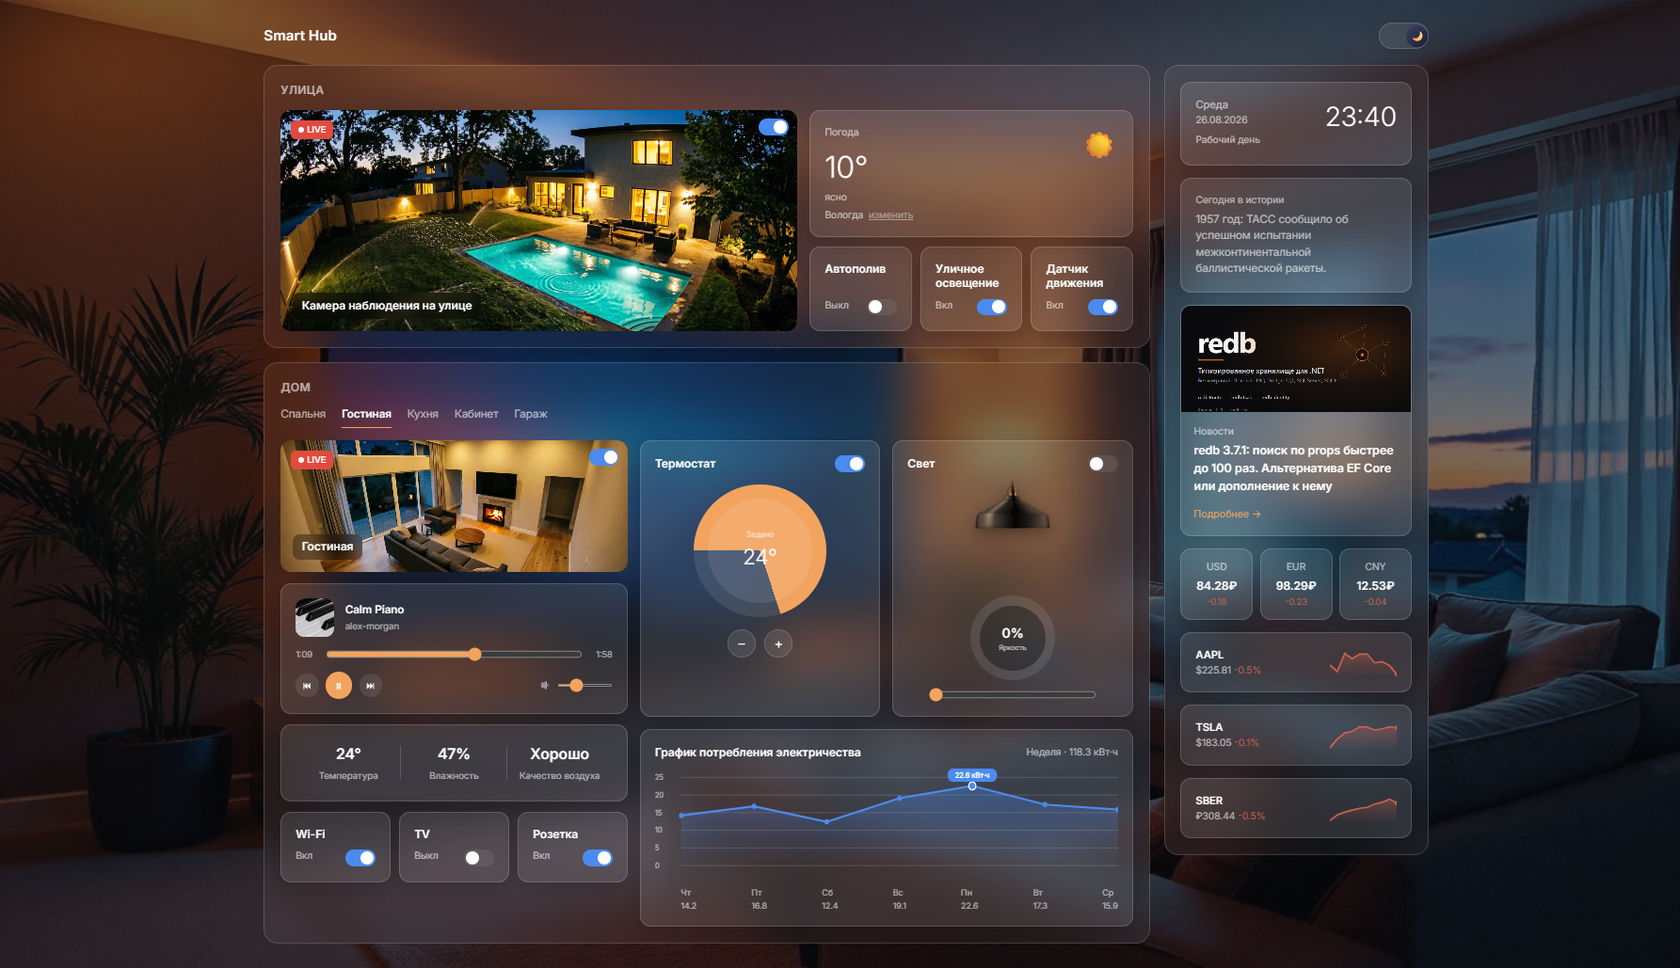
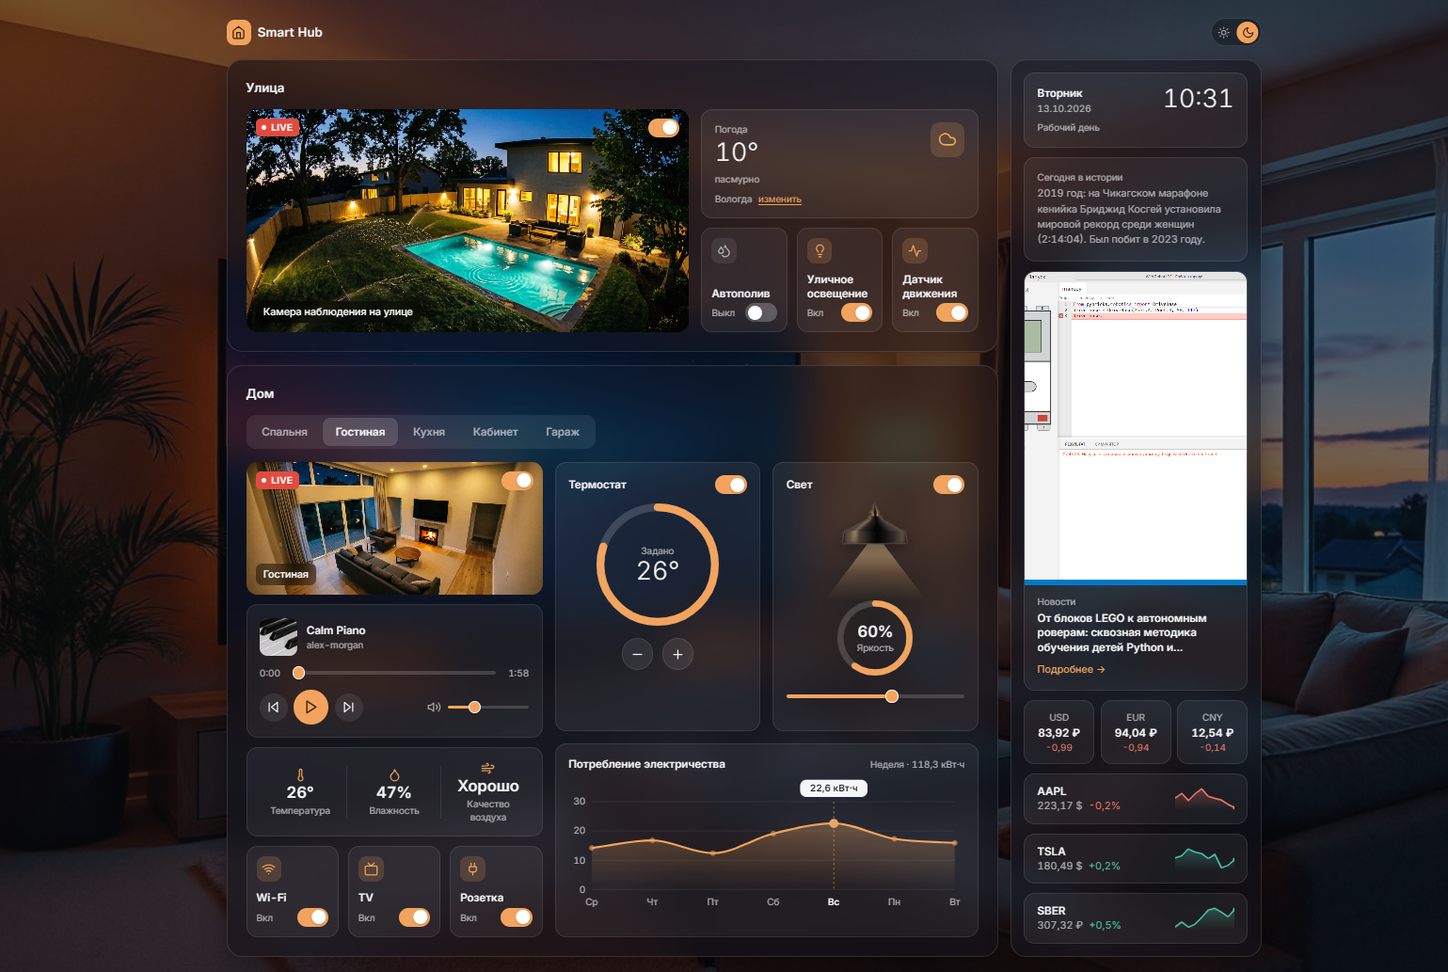
update README

diff --git a/README.md b/README.md
@@ -15,54 +15,106 @@
 
 ---
 
-**Smart Hub** — это интерактивная панель мониторинга и управления умным домом:
-комнаты, устройства, музыка, датчики, погода, курсы валют и новости — всё в одном
-аккуратном, живом интерфейсе с плавной сменой дня и ночи.
+**Smart Hub** — единая панель управления умным домом в браузере: камеры, свет,
+климат, музыка, датчики и энергопотребление на одном экране, плюс полезные
+данные дня — погода, курсы валют, новости. Интерфейс адаптируется к времени
+суток и работает в светлой и тёмной теме.
+
+## 🎯 Для чего это
+
+- **Одно окно вместо множества приложений.** Управление устройствами разных
+  типов и мониторинг дома собраны в одном месте.
+- **Наглядность с первого взгляда.** Живые показания датчиков, состояние
+  устройств и динамика потребления энергии видны сразу, без переходов по экранам.
+- **Основа для реального продукта.** Архитектура позволяет подключить настоящие
+  устройства и серверную часть, не переписывая интерфейс.
 
 ## ✨ Возможности
 
-- 🏘 **Комнаты** — Спальня, Гостиная, Кухня, Кабинет, Гараж и отдельная секция
-  «Улица»; переключение между ними — по вкладкам
-- 📷 **Камеры видеонаблюдения** в каждой комнате и на улице с live-индикатором
-- 💡 **Умный свет** с плавной регулировкой яркости
-- 🌡 **Термостат** с целевой/текущей температурой и автоматическими режимами
-  нагрева, охлаждения и ожидания (HEAT / COOL / IDLE)
-- 🔌 **Тумблеры устройств** — Wi-Fi, TV, розетка, автополив, уличное освещение,
+**Управление домом**
+- 🏘 Комнаты — Спальня, Гостиная, Кухня, Кабинет, Гараж и отдельная секция «Улица»
+- 📷 Камеры видеонаблюдения с live-индикатором и возможностью отключения
+- 💡 Умный свет — регулировка яркости, визуализация светового конуса лампы
+- 🌡 Термостат с автоматическими режимами нагрева, охлаждения и ожидания
+- 🔌 Тумблеры устройств — Wi-Fi, TV, розетка, автополив, уличное освещение,
   датчик движения
-- 📊 **Датчики** температуры, влажности и качества воздуха с живой, плавно
-  меняющейся динамикой показаний
-- 🚨 **Уведомления** — всплывающие алерты по показаниям датчиков
-- 🎵 **Музыкальный плеер** с реальными треками, прогресс-баром и переключением
-  композиций
-- ⚡ **График энергопотребления** за последние 7 дней
-- ☀ **Погода** — определяется по названию города через геокодинг
-- 💱 **Курсы валют** USD / EUR / CNY
-- 📰 **Лента новостей** (Habr / Lenta)
-- 📅 **Факт «сегодня в истории»** и статус дня — рабочий, выходной или
-  праздничный
-- 📈 **Котировки акций** с изменением в процентах
-- 🌗 **Тёмная и светлая тема** — фон комнаты и улицы плавно переключается
-  день ⇄ ночь, выбор темы запоминается между визитами
-- 💾 Состояние тумблеров и темы сохраняется в `localStorage` — обновление
-  страницы ничего не сбрасывает
-- 📱 Аккуратный, отзывчивый интерфейс на Tailwind CSS
+- 🚨 Уведомления по показаниям датчиков
 
-## 🛠 Технологии
+**Мониторинг**
+- 📊 Датчики температуры, влажности и качества воздуха с живой динамикой
+- ⚡ График энергопотребления за неделю с подсказками по наведению
+- 🎵 Музыкальный плеер: перемотка, громкость, переключение композиций
 
-| Слой        | Инструменты                         |
-| ----------- | ----------------------------------- |
-| UI          | React 18 + TypeScript, Tailwind CSS |
-| Состояние   | Zustand                             |
-| Сборка      | Vite                                |
-| HTTP-клиент | Axios                               |
-| Тесты       | Jest + React Testing Library        |
+**Информация дня**
+- ☀ Погода по названию города
+- 💱 Курсы валют USD / EUR / CNY
+- 📈 Котировки акций
+- 📰 Лента новостей
+- 📅 Факт «сегодня в истории» и статус дня (рабочий, выходной, праздничный)
 
-Приложение работает как самостоятельное клиентское SPA: локальная симуляция
-датчиков, музыки и котировок происходит прямо в браузере, а данные о погоде,
-курсах валют, новостях и статусе дня приложение получает напрямую с открытых
-публичных API (см. таблицу ниже).
+**Интерфейс**
+- 🌗 Светлая и тёмная темы: фон плавно переключается день ⇄ ночь, выбор
+  запоминается
+- 💾 Состояние устройств сохраняется между визитами
+- 📱 Адаптивная вёрстка под разные размеры экрана
+- ♿ Доступность: управление с клавиатуры, подписи для экранных читалок
 
-## 🚀 Быстрый старт
+## 🖥 Технологии
+
+| Слой        | Инструменты                                    |
+| ----------- | ---------------------------------------------- |
+| UI          | React 18, TypeScript                           |
+| Стили       | CSS-токены, методология BEM, Tailwind CSS      |
+| Состояние   | Zustand                                        |
+| Сборка      | Vite                                           |
+| HTTP-клиент | Axios                                          |
+| Тесты       | Jest, React Testing Library                    |
+
+## 🧩 Архитектурные решения
+
+- **Клиентское SPA без бэкенда.** Показания датчиков, музыка и котировки
+  симулируются прямо в браузере, поэтому демо работает без серверной части и
+  оборудования.
+- **Разделение данных и интерфейса.** Состояние вынесено в отдельные Zustand-сторы
+  (устройства, датчики, музыка, котировки, тема), компоненты только отображают его.
+- **Отказоустойчивые внешние данные.** Погода запрашивается из нескольких
+  независимых источников одновременно, остальные сервисы — с резервными
+  провайдерами и локальными запасными значениями. Ни один сбой не ломает экран.
+- **Единая дизайн-система.** Все цвета заданы токенами для двух тем, общие
+  компоненты (`Slider`, `Ring`, `Switch`, `Icon`) выглядят одинаково везде.
+  Стили написаны по BEM.
+- **Типизация.** Весь код на TypeScript со строгим режимом.
+
+## 🗂 Структура проекта
+
+```
+src/
+├── api/                    # внешние API: погода, курсы, новости, статус дня
+├── data/seedData.ts        # данные комнат, устройств, музыки, акций
+├── hooks/                  # симуляция датчиков/музыки/котировок, размер графика
+├── store/                  # Zustand-сторы
+├── components/
+│   ├── ui/                 # общие примитивы: Icon, Switch, Slider, Ring
+│   └── ...                 # карточки: камера, термостат, свет, плеер, график
+├── pages/DashboardPage.tsx # главный экран
+├── styles/index.css        # дизайн-токены и BEM-стили
+└── utils/                  # форматирование, иконки погоды, пути к ассетам
+```
+
+## 🌐 Источники данных
+
+| Функция                  | Источник                                                    |
+| ------------------------ | ----------------------------------------------------------- |
+| Погода                   | wttr.in, Open-Meteo, MET Norway                             |
+| Курсы валют              | cbr-xml-daily.ru (зеркало ЦБ РФ), резерв — currency-api     |
+| Статус дня               | isdayoff.ru, резерв — Nager.Date                            |
+| Факт «сегодня в истории» | Wikipedia REST                                              |
+| Новости                  | Habr RSS, резерв — Lenta RSS                                |
+
+Комнаты, устройства, датчики, музыка, котировки и график энергии — локальные
+демо-данные с реалистичной симуляцией, без физического оборудования.
+
+## 🚀 Запуск
 
 ```bash
 npm install
@@ -70,72 +122,4 @@ npm run dev
 ```
 
 Откройте [http://localhost:5173](http://localhost:5173) — дашборд открывается
-сразу, без логина и регистрации.
-
-## 📦 Сборка и тесты
-
-```bash
-npm run build   # продакшн-сборка в dist/
-npm run preview # локальный просмотр собранной версии
-npm run test    # юнит-тесты (Jest + React Testing Library)
-npm run lint    # ESLint
-```
-
-## 🗂 Структура проекта
-
-```
-src/
-├── api/external.ts         # запросы к внешним API (погода, курсы, новости…)
-├── data/seedData.ts        # стартовые данные комнат, устройств, музыки, акций
-├── hooks/useSimulation.ts  # живая симуляция датчиков, музыки и котировок
-├── store/                  # Zustand-сторы: devices, sensors, music, stocks, theme
-├── components/             # UI-компоненты: карточки, вкладки, графики
-├── pages/DashboardPage.tsx # главный экран приложения
-└── utils/                  # вспомогательные утилиты
-
-public/
-├── images/                 # изображения комнат, устройств, обложки треков
-├── audio/                  # аудиотреки для музыкального плеера
-└── fonts/                  # шрифты интерфейса
-```
-
-## 🌐 Внешние источники данных
-
-Каждый источник ниже поддерживает CORS, не требует API-ключа и вызывается
-напрямую из браузера с fallback-цепочкой на случай сбоя основного провайдера:
-
-| Функция                  | Основной источник                                | Резервный источник            | Если оба недоступны               |
-| ------------------------ | ------------------------------------------------ | ----------------------------- | --------------------------------- |
-| Погода                   | Open-Meteo (+ их же geocoding для поиска города) | —                             | сообщение об ошибке в карточке    |
-| Курсы валют              | cbr-xml-daily.ru (зеркало ЦБ РФ)                 | currency-api (fawazahmed0)    | сообщение об ошибке               |
-| Статус дня               | isdayoff.ru (для РФ)                             | Nager.Date (для других стран) | локальный fallback «Рабочий день» |
-| Факт «сегодня в истории» | Wikipedia REST (on this day)                     | —                             | локальный fallback-текст          |
-| Новости                  | Habr RSS                                         | Lenta RSS                     | пустая лента                      |
-
-Комнаты, устройства, музыка, датчики, котировки и график энергии — не внешние
-API, а локальные данные (`src/data/seedData.ts`), которые «оживляются» через
-`useSimulation` (плавное изменение показаний датчиков и котировок,
-воспроизведение музыки) — реалистичная симуляция умного дома без физического
-оборудования.
-
-## 🎨 Медиа
-
-Изображения и аудио лежат в `public/` и раздаются как есть — обращаться к ним
-в коде нужно по абсолютному пути (например, `/images/day-living-room.png`).
-Чтобы заменить картинку комнаты, устройства или обложку трека, просто
-положите свой файл в `public/images/` под тем же именем или обновите путь в
-`src/data/seedData.ts`.
-
-## ☁ Деплой
-
-Результат `npm run build` — обычный статический сайт (`dist/`), который можно
-разместить на любом бесплатном статическом хостинге:
-
-- **Vercel** / **Netlify** — Import Project → Build command `npm run build` →
-  Output directory `dist`
-- **GitHub Pages** — `npm run build`, запушить содержимое `dist/` в ветку
-  `gh-pages`
-- **Cloudflare Pages** — аналогично Vercel/Netlify
-
-Переменные окружения для деплоя не требуются — все внешние API вызываются
-напрямую из браузера пользователя.
+сразу, без регистрации.

diff --git a/public/audio/audio-README.md b/public/audio/audio-README.md
@@ -5,8 +5,8 @@
 Имя файла должно совпадать с `audioUrl` в `src/data/seedData.ts` (массив `MUSIC_TRACKS`).
 
 Например, для трека по умолчанию нужен файл `track-1.mp3` — он должен лежать
-прямо в этой папке (`frontend/public/audio/track-1.mp3`), тогда в браузере
+прямо в этой папке (`public/audio/track-1.mp3`), тогда в браузере
 он будет доступен по пути `/audio/track-1.mp3`.
 
-Обложка для трека кладётся в `frontend/public/images/` (см. README там же)
-и указывается в `coverUrl` того же трека.
+Обложка для трека кладётся в `public/images/` и указывается в `coverUrl`
+того же трека (например, `/images/track-1.png`).
